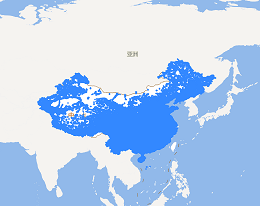
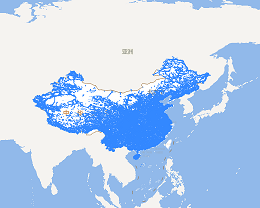
修改fgb示例数据 review by luox

diff --git a/examples/leaflet/config.js b/examples/leaflet/config.js
@@ -1161,15 +1161,15 @@ var exampleConfig = {
               version: '11.1.0',
               content: [
                   {
-                      name: 'FGB 全量加载（2500万点数据量）',
-                      name_en: 'FGB Full Load (Use lines to draw 25 millions Chinese roads)',
+                      name: 'FGB 全量加载（1400万点数据量）',
+                      name_en: 'FGB Full Load (Use lines to draw 14 millions Chinese roads)',
                       version: '11.1.0',
                       thumbnail: 'fgb_all_load.png',
                       fileName: 'fgb_all_load'
                   },
                   {
-                    name: 'FGB 按需加载（2500万点数据量）',
-                    name_en: 'FGB Extent Load (Use lines to draw 25 millions Chinese roads)',
+                    name: 'FGB 按需加载（1400万点数据量）',
+                    name_en: 'FGB Extent Load (Use lines to draw 14 millions Chinese roads)',
                     version: '11.1.0',
                     thumbnail: 'fgb_bbox_load.png',
                     fileName: 'fgb_bbox_load'

diff --git a/examples/mapboxgl/config.js b/examples/mapboxgl/config.js
@@ -1166,15 +1166,15 @@ var exampleConfig = {
               version: '11.0.1',
               content: [
                   {
-                      name: 'FGB 全量加载（2500万点数据量）',
-                      name_en: 'FGB Full Load (Use lines to draw 25 millions Chinese roads)',
+                      name: 'FGB 全量加载（1400万点数据量）',
+                      name_en: 'FGB Full Load (Use lines to draw 14 millions Chinese roads)',
                       version: '11.1.0',
                       thumbnail: 'fgb_all_load.png',
                       fileName: 'fgb_all_load'
                   },
                   {
-                    name: 'FGB 按需加载（2500万点数据量）',
-                    name_en: 'FGB Extent Load (Use lines to draw 25 millions Chinese roads)',
+                    name: 'FGB 按需加载（1400万点数据量）',
+                    name_en: 'FGB Extent Load (Use lines to draw 14 millions Chinese roads)',
                     version: '11.1.0',
                     thumbnail: 'fgb_bbox_load.png',
                     fileName: 'fgb_bbox_load'

diff --git a/examples/openlayers/config.js b/examples/openlayers/config.js
@@ -1130,15 +1130,15 @@ var exampleConfig = {
               version: '11.1.0',
               content: [
                   {
-                    name: 'FGB 全量加载（2500万点数据量）',
-                    name_en: 'FGB Full Load (Use lines to draw 25 millions Chinese roads)',
+                    name: 'FGB 全量加载（1400万点数据量）',
+                    name_en: 'FGB Full Load (Use lines to draw 14 millions Chinese roads)',
                     version: '11.1.0',
                     thumbnail: 'fgb_all_load.png',
                     fileName: 'fgb_all_load'
                   },
                   {
-                    name: 'FGB 按需加载（2500万点数据量）',
-                    name_en: 'FGB Extent Load (Use lines to draw 25 millions Chinese roads)',
+                    name: 'FGB 按需加载（1400万点数据量）',
+                    name_en: 'FGB Extent Load (Use lines to draw 14 millions Chinese roads)',
                     version: '11.1.0',
                     thumbnail: 'fgb_bbox_load.png',
                     fileName: 'fgb_bbox_load'

diff --git a/examples/maplibregl/config.js b/examples/maplibregl/config.js
@@ -911,14 +911,14 @@ var exampleConfig = {
         name_en: 'FlatGeobuf',
         content: [
           {
-            name: 'FGB 全量加载（2500万点数据量）',
-            name_en: 'FGB Full Load (Use lines to draw 25 millions Chinese roads)',
+            name: 'FGB 全量加载（1400万点数据量）',
+            name_en: 'FGB Full Load (Use lines to draw 14 millions Chinese roads)',
             thumbnail: 'fgb_all_load.png',
             fileName: 'fgb_all_load'
           },
           {
-            name: 'FGB 按需加载（2500万点数据量）',
-            name_en: 'FGB Extent Load (Use lines to draw 25 millions Chinese roads)',
+            name: 'FGB 按需加载（1400万点数据量）',
+            name_en: 'FGB Extent Load (Use lines to draw 14 millions Chinese roads)',
             thumbnail: 'fgb_bbox_load.png',
             fileName: 'fgb_bbox_load'
           }

diff --git a/examples/openlayers/fgb_bbox_load.html b/examples/openlayers/fgb_bbox_load.html
@@ -14,7 +14,7 @@
     <script type="text/javascript">
       var host = window.isLocal ? window.server : 'https://iserver.supermap.io',
         url = host + '/iserver/services/map-china400/rest/maps/China_4326';
-      var fgbUrl = 'https://iclient.supermap.io/minio/fgb/roads.fgb';
+      var fgbUrl = 'https://iclient.supermap.io/minio/fgb/waterways.fgb';
       var map;
       map = new ol.Map({
         target: 'map',
@@ -23,7 +23,7 @@
           .extend([new ol.supermap.control.Logo({ link: "https://iclient.supermap.io" })]),
         view: new ol.View({
           center: [116.3966453552246, 39.91313934326172],
-          zoom: 13,
+          zoom: 9,
           projection: 'EPSG:4326',
           multiWorld: true
         })

diff --git a/examples/maplibregl/fgb_bbox_load.html b/examples/maplibregl/fgb_bbox_load.html
@@ -32,11 +32,11 @@
         " Map Data <span>© <a href='http://support.supermap.com.cn/product/iServer.aspx' target='_blank'>SuperMap iServer</a></span>";
       var host = window.isLocal ? window.server : 'https://iserver.supermap.io';
       var baseUrl = host + '/iserver/services/map-china400/rest/maps/China/zxyTileImage.png?z={z}&x={x}&y={y}';
-      var fgbUrl = 'https://iclient.supermap.io/minio/fgb/roads.fgb';
+      var fgbUrl = 'https://iclient.supermap.io/minio/fgb/waterways.fgb';
       var map = new maplibregl.Map({
         container: 'map',
         center: [116.3966453552246, 39.91313934326172],
-        zoom: 12,
+        zoom: 8,
         style: {
           version: 8,
           sources: {

diff --git a/examples/mapboxgl/fgb_bbox_load.html b/examples/mapboxgl/fgb_bbox_load.html
@@ -32,11 +32,11 @@
         " Map Data <span>© <a href='http://support.supermap.com.cn/product/iServer.aspx' target='_blank'>SuperMap iServer</a></span>";
       var host = window.isLocal ? window.server : 'https://iserver.supermap.io';
       var baseUrl = host + '/iserver/services/map-china400/rest/maps/China/zxyTileImage.png?z={z}&x={x}&y={y}';
-      var fgbUrl = 'https://iclient.supermap.io/minio/fgb/roads.fgb';
+      var fgbUrl = 'https://iclient.supermap.io/minio/fgb/waterways.fgb';
       var map = new mapboxgl.Map({
         container: 'map',
         center: [116.3966453552246, 39.91313934326172],
-        zoom: 12,
+        zoom: 8,
         style: {
           version: 8,
           sources: {

diff --git a/examples/leaflet/fgb_bbox_load.html b/examples/leaflet/fgb_bbox_load.html
@@ -15,13 +15,13 @@
       var host = window.isLocal ? window.server : 'https://iserver.supermap.io';
       var map,
         baseUrl = host + '/iserver/services/map-china400/rest/maps/China_4326',
-        fgbUrl = 'https://iclient.supermap.io/minio/fgb/roads.fgb';
+        fgbUrl = 'https://iclient.supermap.io/minio/fgb/waterways.fgb';
       map = L.map('map', {
         preferCanvas: true,
         crs: L.CRS.EPSG4326,
         center: [39.91313934326172, 116.3966453552246],
         maxZoom: 18,
-        zoom: 12
+        zoom: 8
       });
       new L.supermap.TiledMapLayer(baseUrl).addTo(map);
       new L.supermap.FGBLayer(fgbUrl, {

diff --git a/examples/maplibregl/fgb_all_load.html b/examples/maplibregl/fgb_all_load.html
@@ -33,7 +33,7 @@
         " Map Data <span>© <a href='http://support.supermap.com.cn/product/iServer.aspx' target='_blank'>SuperMap iServer</a></span>";
       var host = window.isLocal ? window.server : 'https://iserver.supermap.io';
       var baseUrl = host + '/iserver/services/map-china400/rest/maps/China/zxyTileImage.png?z={z}&x={x}&y={y}';
-      var fgbUrl = 'https://iclient.supermap.io/minio/fgb/roads.fgb';
+      var fgbUrl = 'https://iclient.supermap.io/minio/fgb/waterways.fgb';
 
       var map = new maplibregl.Map({
         container: 'map',

diff --git a/examples/mapboxgl/fgb_all_load.html b/examples/mapboxgl/fgb_all_load.html
@@ -33,7 +33,7 @@
         " Map Data <span>© <a href='http://support.supermap.com.cn/product/iServer.aspx' target='_blank'>SuperMap iServer</a></span>";
       var host = window.isLocal ? window.server : 'https://iserver.supermap.io';
       var baseUrl = host + '/iserver/services/map-china400/rest/maps/China/zxyTileImage.png?z={z}&x={x}&y={y}';
-      var fgbUrl = 'https://iclient.supermap.io/minio/fgb/roads.fgb';
+      var fgbUrl = 'https://iclient.supermap.io/minio/fgb/waterways.fgb';
 
       var map = new mapboxgl.Map({
         container: 'map',

diff --git a/examples/leaflet/fgb_all_load.html b/examples/leaflet/fgb_all_load.html
@@ -15,7 +15,7 @@
     <script type="text/javascript">
       var host = window.isLocal ? window.server : 'https://iserver.supermap.io';
       var map, baseUrl = host + '/iserver/services/map-china400/rest/maps/China_4326',
-      fgbUrl = 'https://iclient.supermap.io/minio/fgb/roads.fgb';
+      fgbUrl = 'https://iclient.supermap.io/minio/fgb/waterways.fgb';
       map = L.map('map', {
         preferCanvas: true,
         crs: L.CRS.EPSG4326,

diff --git a/examples/openlayers/fgb_all_load.html b/examples/openlayers/fgb_all_load.html
@@ -14,7 +14,7 @@
     <script type="text/javascript">
       var host = window.isLocal ? window.server : 'https://iserver.supermap.io',
         url = host + '/iserver/services/map-china400/rest/maps/China_4326';
-      var fgbUrl = 'https://iclient.supermap.io/minio/fgb/roads.fgb';
+      var fgbUrl = 'https://iclient.supermap.io/minio/fgb/waterways.fgb';
       var map;
       map = new ol.Map({
         target: 'map',
